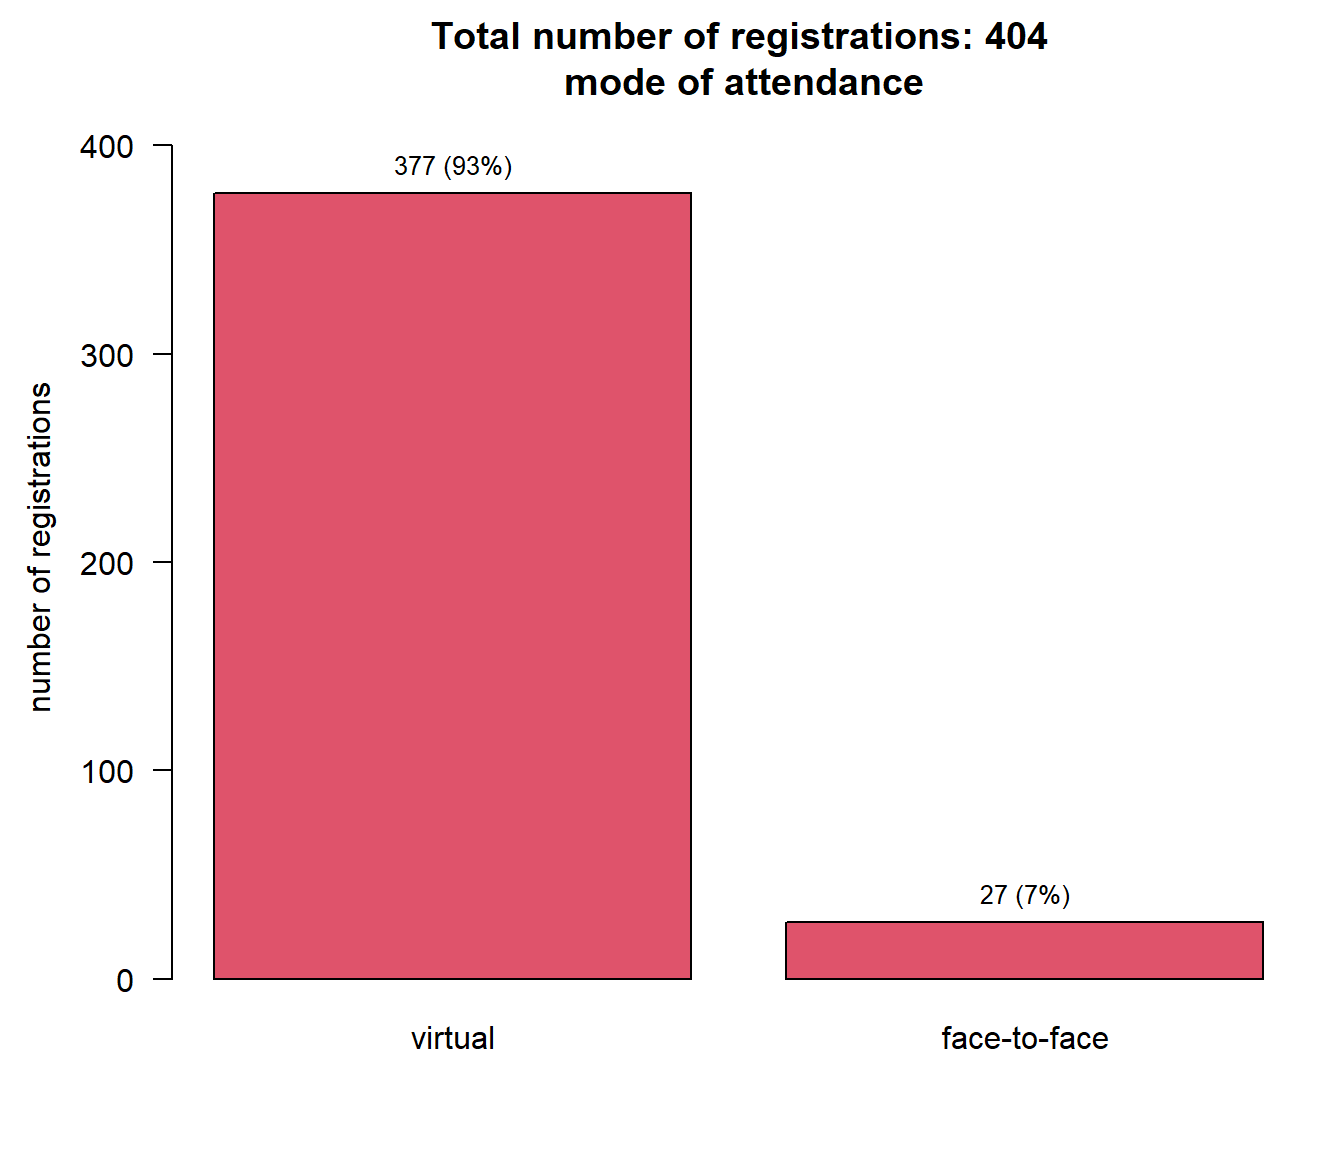
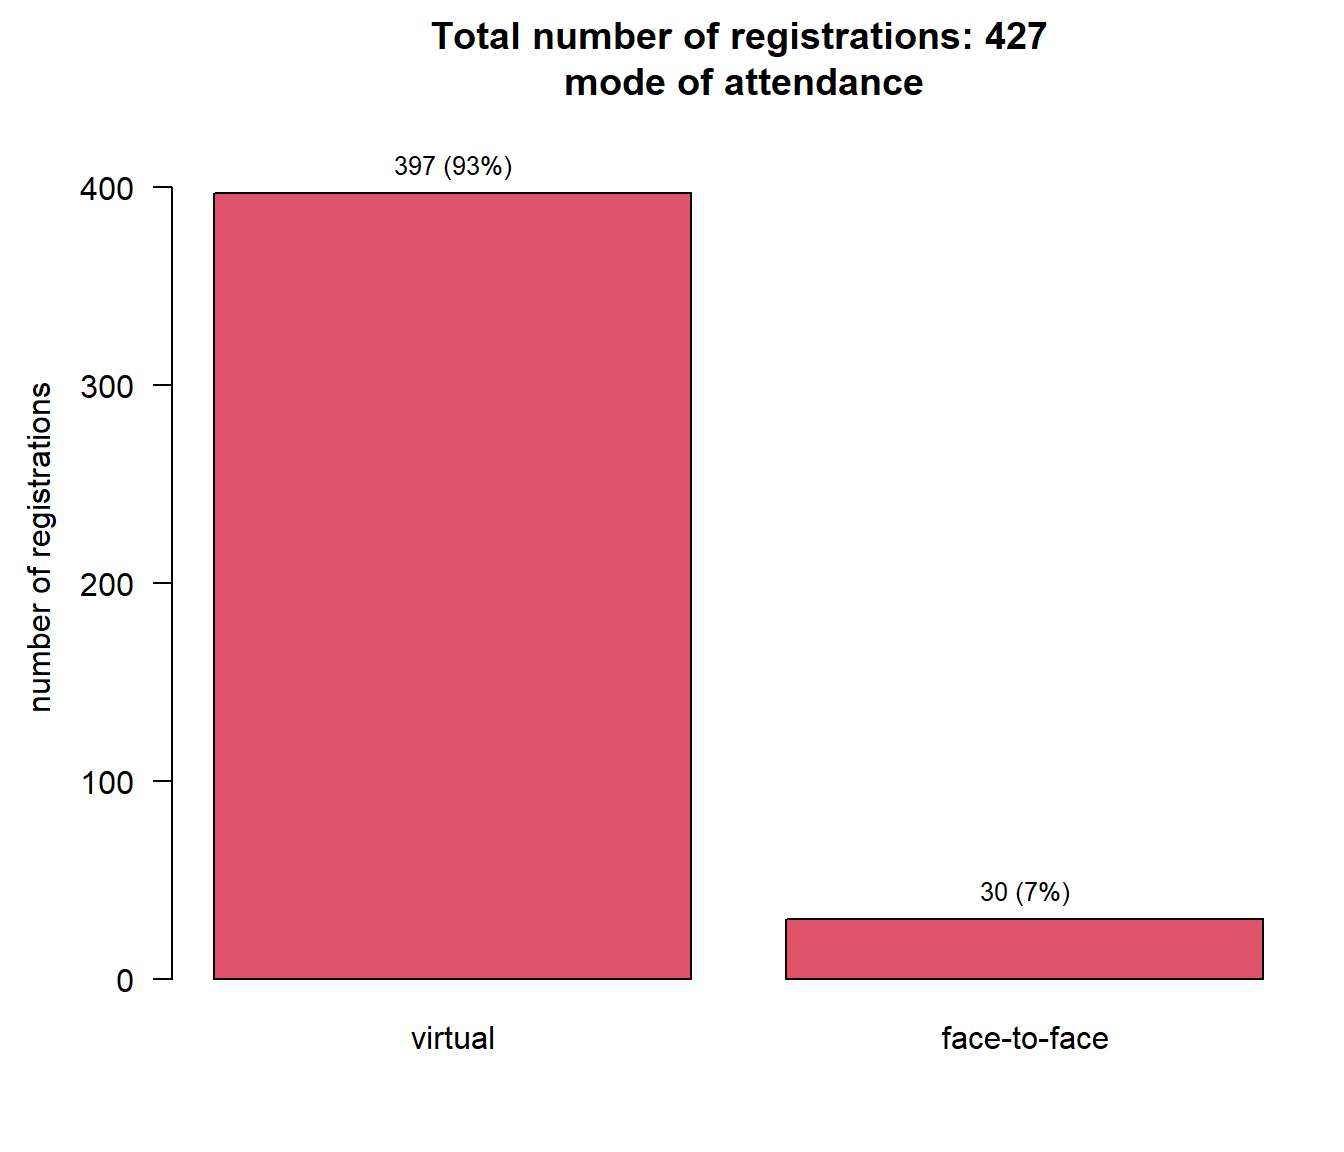
upate

diff --git a/docs/talks/20250824/analysis_ISCB.html b/docs/talks/20250824/analysis_ISCB.html
@@ -7,7 +7,7 @@
 <meta name="viewport" content="width=device-width, initial-scale=1.0, user-scalable=yes">
 
 <meta name="author" content="Kaspar Rufibach">
-<meta name="dcterms.date" content="2026-11-23">
+<meta name="dcterms.date" content="2026-11-24">
 
 <title>ISCB46 in Basel: analysis of registrations – Basel Biometrics Society</title>
 <style>
@@ -210,7 +210,7 @@ ul.task-list li input[type="checkbox"] {
     <div>
     <div class="quarto-title-meta-heading">Published</div>
     <div class="quarto-title-meta-contents">
-      <p class="date">November 23, 2026</p>
+      <p class="date">November 24, 2026</p>
     </div>
   </div>
   
@@ -224,7 +224,7 @@ ul.task-list li input[type="checkbox"] {
 
 <section id="data-status" class="level1">
 <h1>Data status</h1>
-<p>Data as of 2026-11-23 at 20:05:45.</p>
+<p>Data as of 2026-11-24 at 20:18:44.</p>
 <!-- # Registrations by institution -->
 <!-- ```{r, echo = FALSE, fig.cap = "", fig.align = "center", fig.width = 7, fig.height = 10} -->
 <!-- t2 <- with(reg4, table(inst2)) -->

diff --git a/docs/talks/20250319/analysis_innovation.html b/docs/talks/20250319/analysis_innovation.html
@@ -7,7 +7,7 @@
 <meta name="viewport" content="width=device-width, initial-scale=1.0, user-scalable=yes">
 
 <meta name="author" content="Kaspar Rufibach">
-<meta name="dcterms.date" content="2026-11-23">
+<meta name="dcterms.date" content="2026-11-24">
 
 <title>BBS seminar 19th March 2025: analysis of registrations – Basel Biometrics Society</title>
 <style>
@@ -215,7 +215,7 @@ ul.task-list li input[type="checkbox"] {
     <div>
     <div class="quarto-title-meta-heading">Published</div>
     <div class="quarto-title-meta-contents">
-      <p class="date">November 23, 2026</p>
+      <p class="date">November 24, 2026</p>
     </div>
   </div>
   
@@ -229,7 +229,7 @@ ul.task-list li input[type="checkbox"] {
 
 <section id="data-status" class="level1">
 <h1>Data status</h1>
-<p>Data as of 2026-11-23 at 20:05:32.</p>
+<p>Data as of 2026-11-24 at 20:18:32.</p>
 </section>
 <section id="registrations-by-type-of-institution" class="level1">
 <h1>Registrations by type of institution</h1>

diff --git a/docs/talks/20250319/analysis_innovation_questions.html b/docs/talks/20250319/analysis_innovation_questions.html
@@ -7,7 +7,7 @@
 <meta name="viewport" content="width=device-width, initial-scale=1.0, user-scalable=yes">
 
 <meta name="author" content="Kaspar Rufibach">
-<meta name="dcterms.date" content="2026-11-23">
+<meta name="dcterms.date" content="2026-11-24">
 
 <title>BBS seminar 19th March 2025: analysis of questions – Basel Biometrics Society</title>
 <style>
@@ -209,7 +209,7 @@ ul.task-list li input[type="checkbox"] {
     <div>
     <div class="quarto-title-meta-heading">Published</div>
     <div class="quarto-title-meta-contents">
-      <p class="date">November 23, 2026</p>
+      <p class="date">November 24, 2026</p>
     </div>
   </div>
   
@@ -223,7 +223,7 @@ ul.task-list li input[type="checkbox"] {
 
 <section id="data-status" class="level1">
 <h1>Data status</h1>
-<p>Data as of 2026-11-23 at 20:05:41.</p>
+<p>Data as of 2026-11-24 at 20:18:41.</p>
 </section>
 <section id="analysis-of-registrations" class="level1">
 <h1>Analysis of registrations</h1>

diff --git a/docs/talks/20191101/20191101_summary.html b/docs/talks/20191101/20191101_summary.html
@@ -7,7 +7,7 @@
 <meta name="viewport" content="width=device-width, initial-scale=1.0, user-scalable=yes">
 
 <meta name="author" content="Laurent Essioux, Dominik Heinzmann, Kaspar Rufibach, Marcel Wolbers">
-<meta name="dcterms.date" content="2026-11-23">
+<meta name="dcterms.date" content="2026-11-24">
 
 <title>BBS seminar 1st November 2019: Predictive modelling, machine learning, and causality – Basel Biometrics Society</title>
 <style>
@@ -248,7 +248,7 @@ window.Quarto = {
     <div>
     <div class="quarto-title-meta-heading">Published</div>
     <div class="quarto-title-meta-contents">
-      <p class="date">November 23, 2026</p>
+      <p class="date">November 24, 2026</p>
     </div>
   </div>
   

diff --git a/docs/upcoming/20261210/20261210_BBS_EFSPI_Bayes.html b/docs/upcoming/20261210/20261210_BBS_EFSPI_Bayes.html
@@ -228,7 +228,7 @@ ul.task-list li input[type="checkbox"] {
 
 <section id="data-status" class="level1">
 <h1>Data status</h1>
-<p>Data as of 2026-11-23 at 20:05:54.</p>
+<p>Data as of 2026-11-24 at 20:18:55.</p>
 </section>
 <section id="registrations" class="level1">
 <h1>Registrations</h1>
